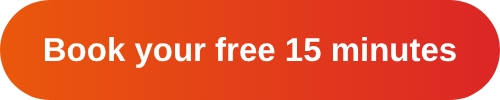
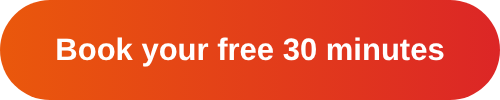
Switch free consultation from 15 to 30 minutes
Claude-Session: https://claude.ai/code/session_01BwrQbMS2h8vHsdADVFxRtF

Changed region(s): [[0.09, 0.36, 0.93, 0.69]]

diff --git a/pricing/index.html b/pricing/index.html
@@ -34,13 +34,13 @@
   </div>
 </div>
 <div class="tx-frames">
-  <iframe id="tx-est" title="Fee estimator" src="https://referrals.taxentric.com/pricing/estimator.html?v=20261119b"></iframe>
-  <iframe id="tx-plans" title="Annual plans" hidden data-src="https://referrals.taxentric.com/pricing/plans.html?v=20261119b"></iframe>
+  <iframe id="tx-est" title="Fee estimator" src="https://referrals.taxentric.com/pricing/estimator.html?v=20261120"></iframe>
+  <iframe id="tx-plans" title="Annual plans" hidden data-src="https://referrals.taxentric.com/pricing/plans.html?v=20261120"></iframe>
 </div>
 <div class="tx-cta-wrap">
   <div class="tx-cta">
     <h2>Not sure what you need?</h2>
-    <p>Book a free 15-minute call and we'll point you to the right service.</p>
+    <p>Book a free 30-minute call and we'll point you to the right service.</p>
     <a href="https://calendly.com/taxentric-support/15min" target="_top">Book my call</a>
   </div>
 </div>

diff --git a/pricing/estimator.html b/pricing/estimator.html
@@ -186,7 +186,7 @@ var Q={
  ka:{ty:"ad",g:"books",h:"What else does your business need?",s:"Choose everything that applies. Prices are added to your monthly bookkeeping."},
 
  /* ----- Planning ----- */
- t1:{ty:"hrs",g:"planning",h:"How much time would you like with us?",s:"$125 per hour, billed in 15-minute increments. Bring any tax question, or let's make a plan to lower next year's taxes.",p:125},
+ t1:{ty:"hrs",g:"planning",h:"How much time would you like with us?",s:"Your first 30 minutes are free. After that, $125 per hour, billed in 15-minute increments. Bring any tax question, or let's make a plan to lower next year's taxes.",p:125},
 
  /* ----- Formation ----- */
  f1:{ty:"one",g:"formation",h:"What would you like to start?",s:"Includes filing with your state, your business tax ID number (EIN), and your operating rules. State fees are separate.",o:[

diff --git a/services/index.html b/services/index.html
@@ -182,7 +182,7 @@
 
     <div class="help">
       <h2>Not sure what you need?</h2>
-      <p>Book a free 15-minute call and we'll point you to the right service, or get your price in a couple of minutes.</p>
+      <p>Book a free 30-minute call and we'll point you to the right service, or get your price in a couple of minutes.</p>
       <div class="btns">
         <a class="btn btn-main" href="https://calendly.com/taxentric-support/15min" target="_top">Book my free call</a>
         <a class="btn btn-alt" href="https://taxentric.com/pricing" target="_top">Get a free estimate</a>
